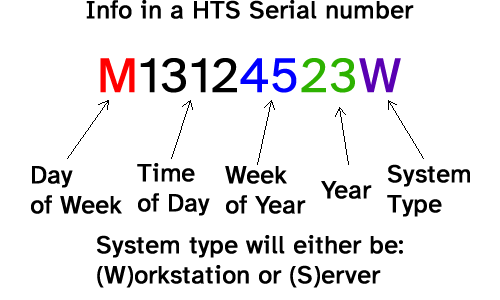
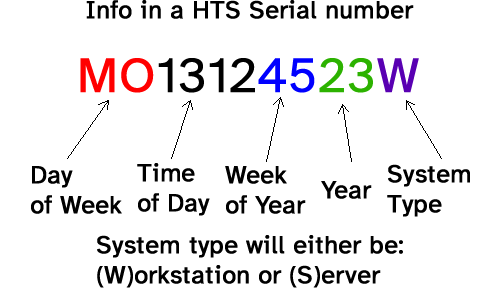
Generates Serial numbers

diff --git a/lib/serialize.dart b/lib/serialize.dart
@@ -1,3 +1,33 @@
-int calculate() {
-  return 6 * 7;
+import 'package:intl/intl.dart';
+
+int getWeekNumber(DateTime date) {
+  DateTime firstDayOfYear = DateTime(date.year, 1, 1);
+
+  int differenceInDays = date.difference(firstDayOfYear).inDays;
+
+  int weekNumber = (differenceInDays / 7).ceil();
+
+  return weekNumber;
+}
+
+String getDayofWeek(DateTime date) {
+  DateFormat formatter = DateFormat('EEEE');
+  String dayOfWeek = formatter.format(date);
+  dayOfWeek = dayOfWeek.substring(0, 2).toUpperCase();
+
+  return dayOfWeek;
+}
+
+String getTimeDay(DateTime date) {
+  DateFormat formatter = DateFormat.Hm();
+  String timeOfDay = formatter.format(date);
+  timeOfDay = timeOfDay.replaceAll(':', '');
+
+  return timeOfDay;
+}
+
+String getYear(DateTime date) {
+  DateFormat formatter = DateFormat.y();
+  String year = formatter.format(date).substring(2, 4);
+  return year;
 }

diff --git a/bin/serialize.dart b/bin/serialize.dart
@@ -1,5 +1,21 @@
-import 'package:serialize/serialize.dart' as serialize;
+import 'package:serialize/serialize.dart';
+import 'package:args/args.dart';
+import 'package:process_run/shell.dart';
 
-void main(List<String> arguments) {
-  print('Hello world: ${serialize.calculate()}!');
+void main(List<String> arguments) async {
+  var parser = ArgParser();
+  parser.addOption('type', abbr: 't', defaultsTo: 'w');
+  var res = parser.parse(arguments);
+
+  DateTime now = DateTime.now();
+  int weekNum = getWeekNumber(now);
+  String dayOfWeek = getDayofWeek(now);
+  String timeOfDay = getTimeDay(now);
+  String year = getYear(now);
+  var type = res['type'];
+  type = type.toString().toUpperCase();
+  print("$dayOfWeek$timeOfDay$weekNum$year$type");
+
+  var shell = Shell();
+  await shell.run('echo replace me');
 }
